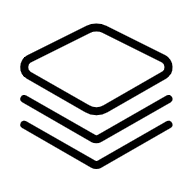
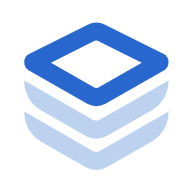
update

diff --git a/zh/index.html b/zh/index.html
@@ -446,13 +446,13 @@
       <ul class="network-icon" aria-hidden="true">
         <li>
           <a href="/zh/#contact" >
-            <i class="fas fa-envelope big-icon"></i>
+            <i class="fa-solid fa-envelope" style="color: #1296db;"></i>
           </a>
         </li>
 
         <li>
           <a href="https://github.com/guohekui" target="_blank" rel="noopener">
-            <i class="fas fa-github big-icon"></i>
+            <i class="fa-brands fa-github" style="color: #1296db;"></i>
           </a>
         </li>
 

diff --git a/zh/project/weeding_robot/index.html b/zh/project/weeding_robot/index.html
@@ -32,7 +32,7 @@
   <link rel="manifest" href="/zh/index.webmanifest">
   <link rel="icon" type="image/png" href="/images/icon_project_32x32.png">
   <link rel="apple-touch-icon" type="image/png" href="/images/icon_project_192x192.png">
-  
+
   <link rel="canonical" href="https://guohekui.github.io/zh/project/weeding_robot/">
 
   <meta property="twitter:card" content="summary_large_image">
